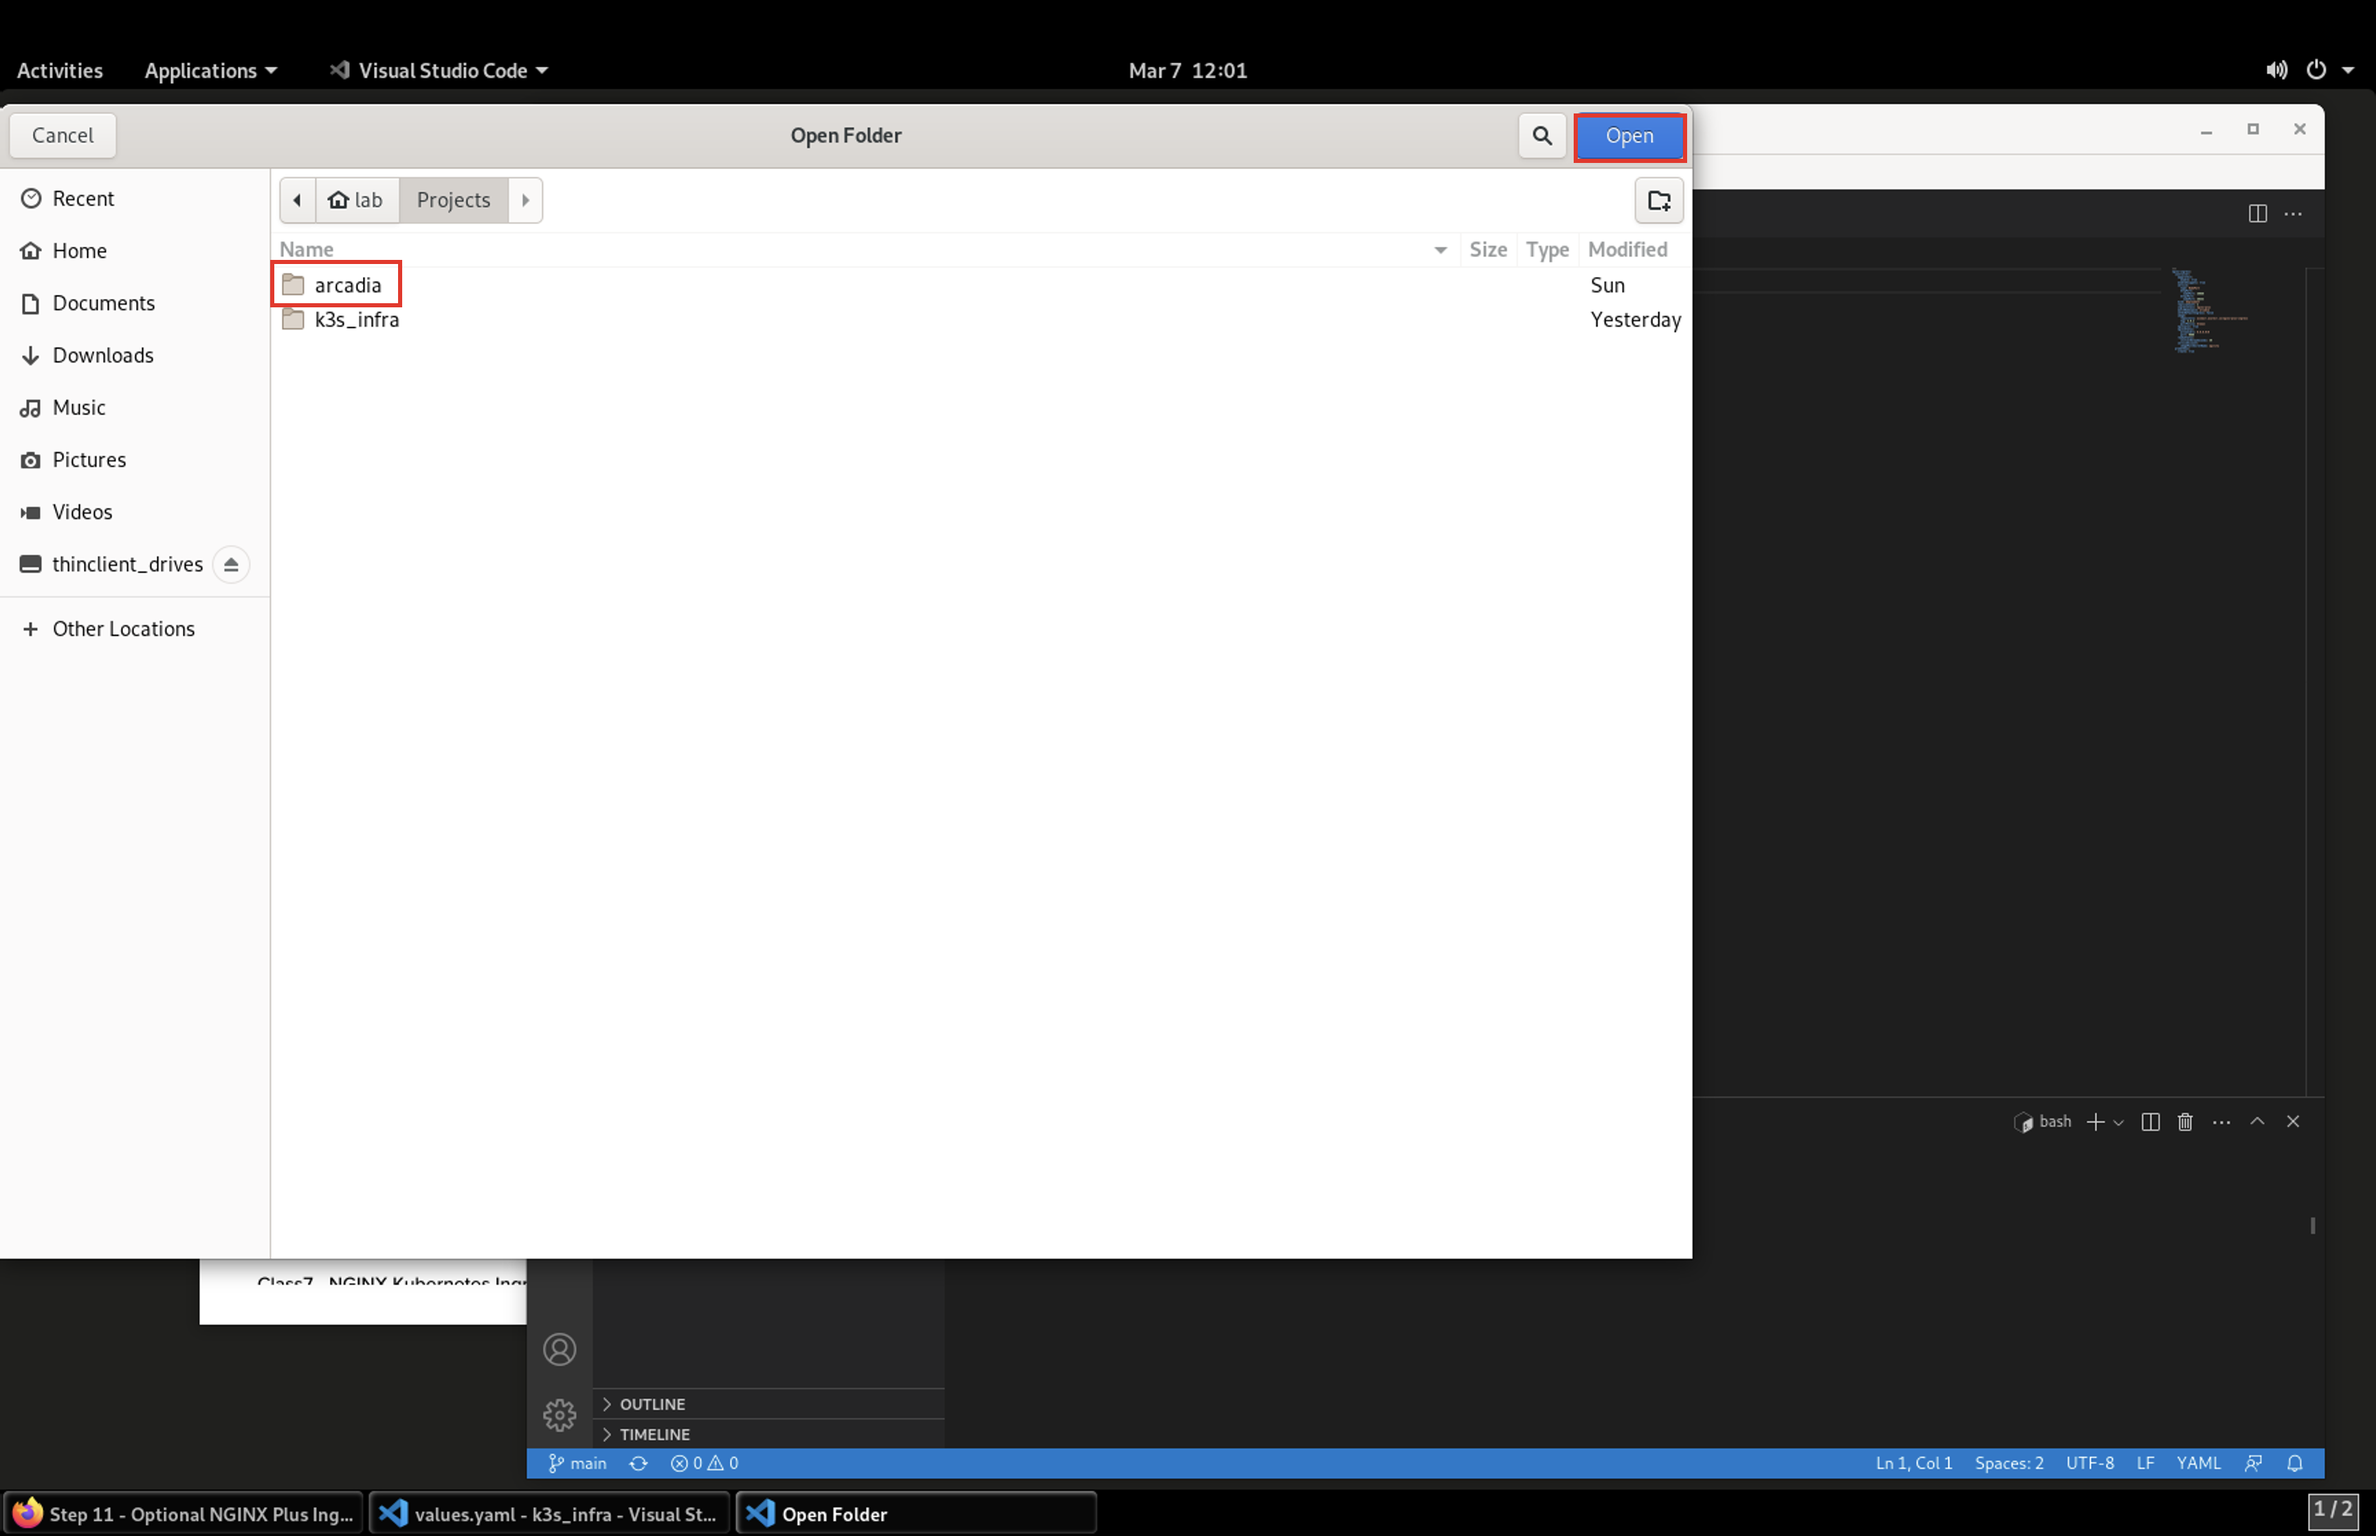
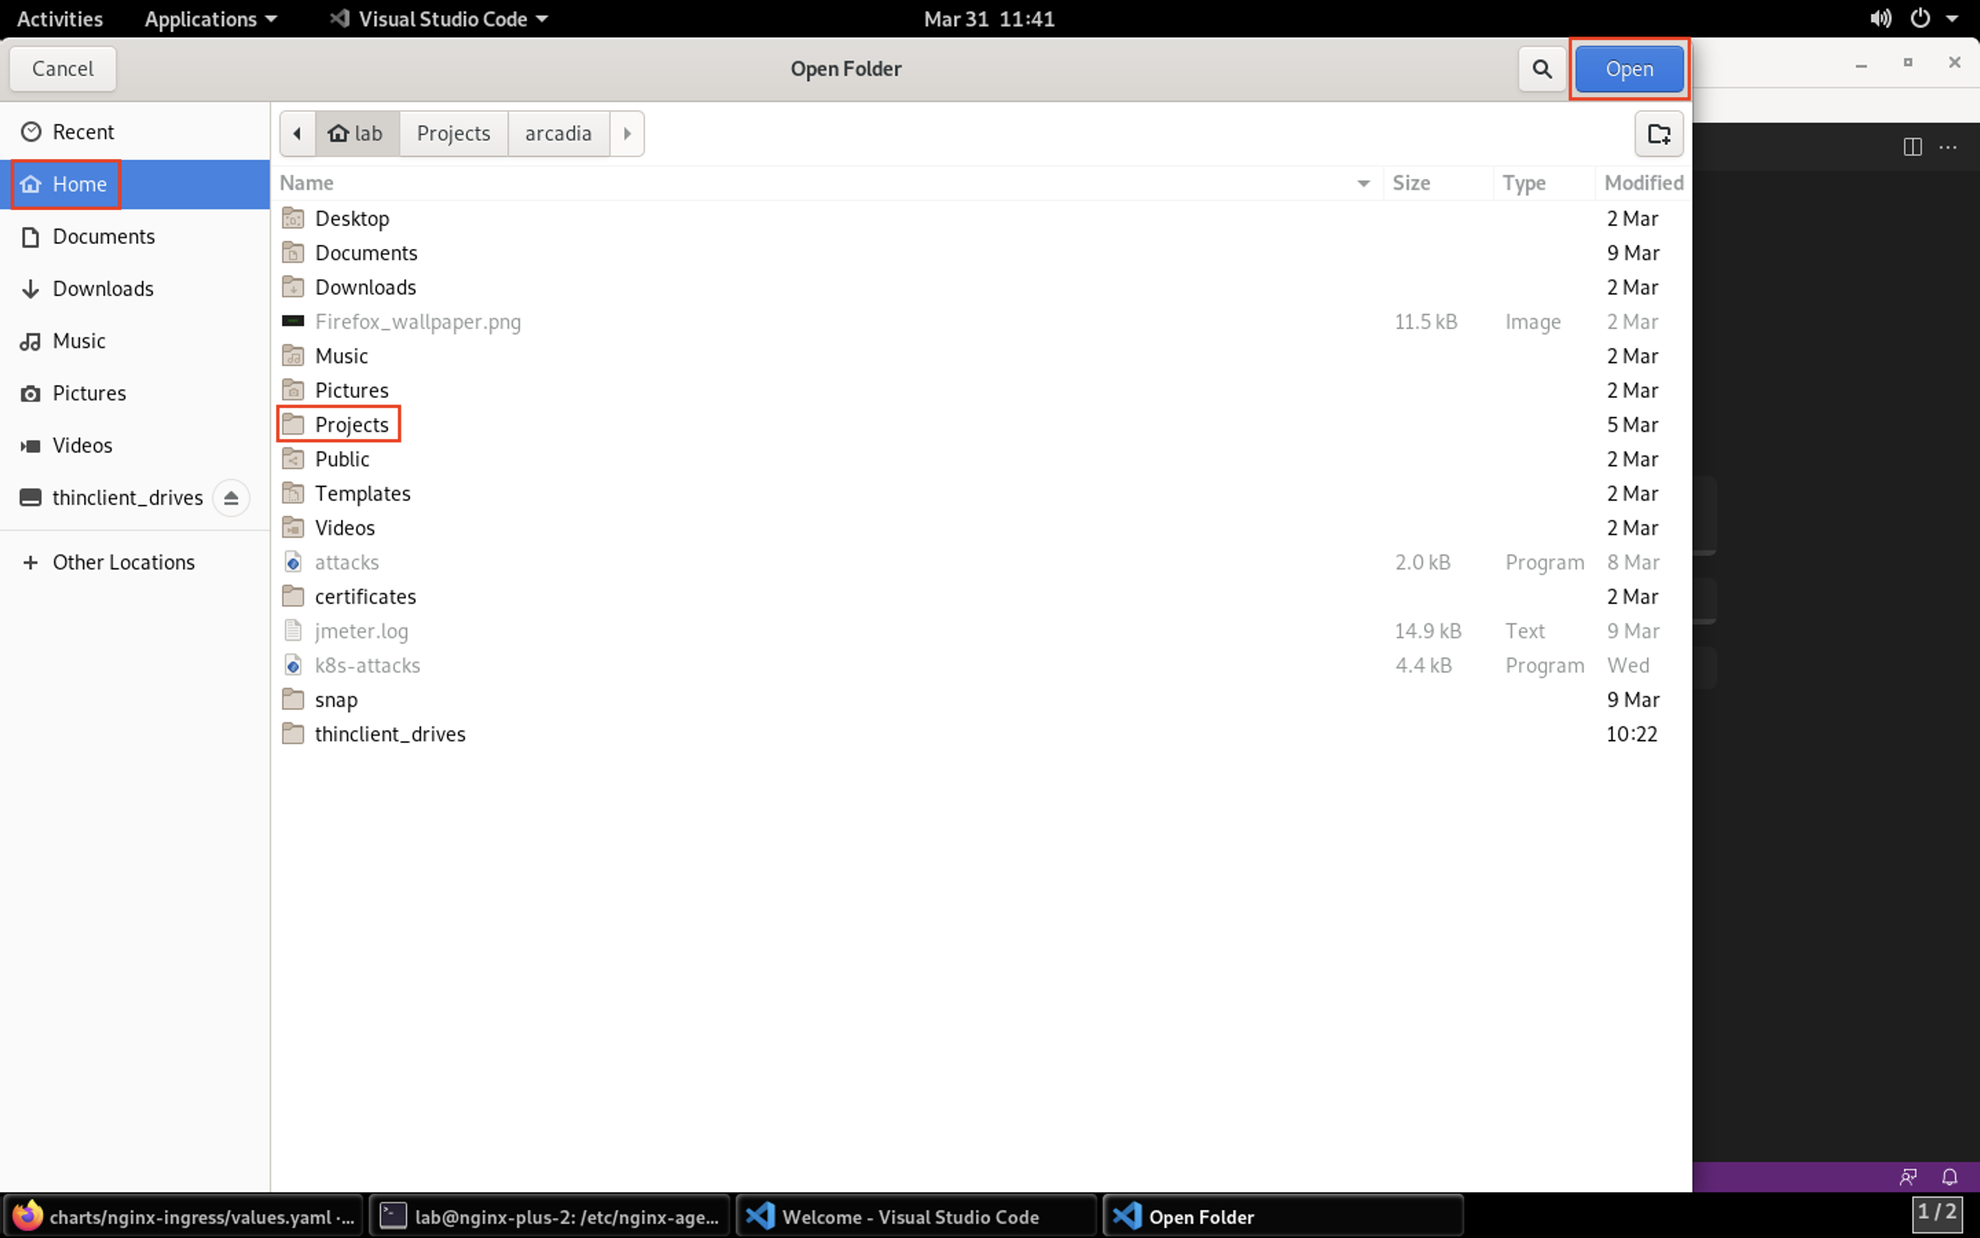
final polishing for module 3

diff --git a/docs/class5/module3/lab2/lab2.rst b/docs/class5/module3/lab2/lab2.rst
@@ -4,14 +4,18 @@ Install NGINX App Protect on the Arcadia App in Kubernetes
 .. image:: images/kubnic.PNG
    :align: center
 
-Now we will be deploying our App Protect policy on the Ingress Controller and exposing our service via NodePort from the ingress controller. Normally there would be a load balancer in front of our cluster. To save time, the ingress contorller has already been deployed. Let's look at how we deployed our Nginx Plux Ingress Controller via Helm.
+Now we will be deploying our App Protect policy on the Ingress Controller and exposing our service via NodePort from the ingress controller. Normally there would be a load balancer in front of our cluster. To save time, the ingress controller has already been deployed. Let's look at how we deployed our Nginx Plux Ingress Controller via Helm.
 Navigating to our **Gitlab** instance under the **ks3_infra** repository, you find all the infrastructure objects deployed. 
 
 1. On the jump host, use the **Applications** menu bar to launch **FireFox Web Browser**. From the bookmark toolbar open **Gitlab**. Log into the site using the username **lab** and the password **Agility2023!**.
 
 .. image:: images/gitlab_login.png 
 
-2. Now select the **ks3_infra** project repository. This repository houses all the infrastructure commponents used in this lab. All have been deployed with Helm and the help of Argo CD.
+2. Log into the tool using the username **lab** and the password **Agility2023!**.
+
+.. image:: images/gitlab_login_filled.png
+
+3. Select the **ks3_infra** project repository. This repository houses all the infrastructure commponents used in this lab. All have been deployed with Helm and the help of Argo CD.
 
 .. image:: images/gitlab_project.png 
 
@@ -48,7 +52,7 @@ Now that you can see how we've set up Nginx Ingress Controller, let's get back t
 
 .. image:: images/VSCode_openFolder.png
 
-10. Select **arcadia**, then click **Open** in the top-right corner of the navigation window.
+10.  Click on the **Home** shortcut on the left. Then click the **Projects** folder, followed by the **arcadia** folder. Finally, click **Open** in the top-right corner of the navigation window.
 
 .. image:: images/VSCode_selectArcadia.png
 
@@ -56,7 +60,7 @@ Now that you can see how we've set up Nginx Ingress Controller, let's get back t
 
 .. image:: images/arcadia_folder_expand.png
 
-12. Now under the **manifest** directory, we can view the manifests files.
+12.  Now under the **manifest** directory, we can view the manifests files.
 
    - **arcadia-deployment.yml**
    - **arcadia-svcs.yml**
@@ -68,9 +72,11 @@ For this lab we will be focused on the **arcadia-vs.yml** manifest file *after* 
 
 13. You'll want to investigate the three new files we'll be moving into the **manifest** directory as this is the path Argo CD is monitoring for changes.
 
- - waf-policy.yml (this is the policy we attach to the VistualServer manifest)
- - waf-ap-logconf.yml (this defines our logging filters)
- - waf-ap-policy.yml (this is the declarative WAF policy with all our logic)
+- waf-policy.yml (this is the policy we attach to the VirtualServer manifest)
+- waf-ap-logconf.yml (this defines our logging filters)
+- waf-ap-policy.yml (this is the declarative WAF policy with all our logic)
+
+First, the policy we attach to the VirtualServer manifest:
 
 .. code-block:: yaml
 
@@ -91,6 +97,7 @@ For this lab we will be focused on the **arcadia-vs.yml** manifest file *after* 
           apLogConf: "arcadia/logconf"
           logDest: "syslog:server=logstash-logstash.default.svc.cluster.local:5144"
 
+Second, the policy for logging and filtering:
 
 .. code-block:: yaml
    :caption: waf-ap-logconf.yml 
@@ -108,11 +115,11 @@ For this lab we will be focused on the **arcadia-vs.yml** manifest file *after* 
      filter:
        request_type: blocked
 
+Finally, our WAF policy:
 
 .. code-block:: yaml 
    :caption: waf-ap-policy.yaml 
    
-   ### app-protect-policy.yaml ###
     ---
     apiVersion: appprotect.f5.com/v1beta1
     kind: APPolicy
@@ -137,7 +144,7 @@ For this lab we will be focused on the **arcadia-vs.yml** manifest file *after* 
           usSocialSecurityNumbers: true
           enforcementMode: ignore-urls-in-list
 
-14. Now, copy the these files over to the **manifests** directory so Nginx App Protect can enforce the policy. Use the **Terminal** window at the bottom of VSCode to issue these commands:
+14.  Now, copy the these files over to the **manifests** directory so Nginx App Protect can enforce the policy. Use the **Terminal** window at the bottom of VSCode to issue these commands:
 
 .. code-block:: bash 
 
@@ -172,11 +179,11 @@ For this lab we will be focused on the **arcadia-vs.yml** manifest file *after* 
 
 .. image:: images/argo_bookmark.png
 
-18. Click on the Arcadia application tile. Clicking on **Sync** will open a side panel to click **Synchronize**.
+18. Click on the Arcadia application tile. Clicking on **Sync** will open a side panel to click **Synchronize**. This will pull the changes we submitted to Gitlab and deploy into Kubernetes.
 
 .. image:: images/sync-arcadia.png 
 
-19.  Before you attempt sending attack data to the Arcadia site, let's open the **ELK** bookmark in a new tab in **Firefox** so you can view the attacks and retrieve the Support ID.
+1.  Before we launch attacks at the Arcadia site, let's open the **ELK** bookmark in a new tab in **Firefox** so you can view the attacks and view Support IDs. Since we are not sending traffic to the app, the dashboard will be empty.
 
 .. image:: images/elk.png 
 

diff --git a/docs/class5/module3/lab1/lab1.rst b/docs/class5/module3/lab1/lab1.rst
@@ -1,7 +1,6 @@
 Review the Arcadia Finance Micro-Services-Based App Deployment
 ==============================================================
 
-
 In this section, we'll review the Arcadia Finance application and then Nginx Plus Ingress Controller with App Protect deployment in Kubernetes.
 
 To visualize the application deployment, we've setup an open source utility named Argo Continuous Deployment, or Argo CD for short.
@@ -25,7 +24,7 @@ Argo CD offers the following key features and capabilities:
 
 .. image:: images/argo_bookmark.png
 
-3. Log into Argo using **admin** as the username and **Agility2023!** as the password.
+3. Log into Argo using **lab** as the username and **Agility2023!** as the password.
 
 .. image:: images/argo_login.png
 

diff --git a/docs/class5/module3/recap.rst b/docs/class5/module3/recap.rst
@@ -1,0 +1,10 @@
+Module Review - Modern Apps NGINX App Protect Deployment
+--------------------------------------------------------
+
+In this module, we have completed the following items:
+
+- Reviewed the Arcadia Finance app deployment in ArgoCD
+- Deployed NGINX App Protect using a CI/CD pipeline
+- Reviewed the NGINX Plus and Grafana dashboards
+
+Please continue to the additional modules in this lab.

diff --git a/docs/class5/module3/lab3/lab3.rst b/docs/class5/module3/lab3/lab3.rst
@@ -1,5 +1,5 @@
-Review the Grafana Dashboard Statistics
-=======================================
+Review the NGINX Plus & Grafana Dashboard Statistics
+====================================================
 
 This section is optional and showcases the use of Nginx Dashboard (included with Nginx Plus). 
 

diff --git a/docs/class5/module3/module3.rst b/docs/class5/module3/module3.rst
@@ -11,4 +11,4 @@ In this section of the lab, we will deploy NGINX App Protect to an existing NGIN
    :caption: Content:
 
    lab*/lab*
-
+   recap
